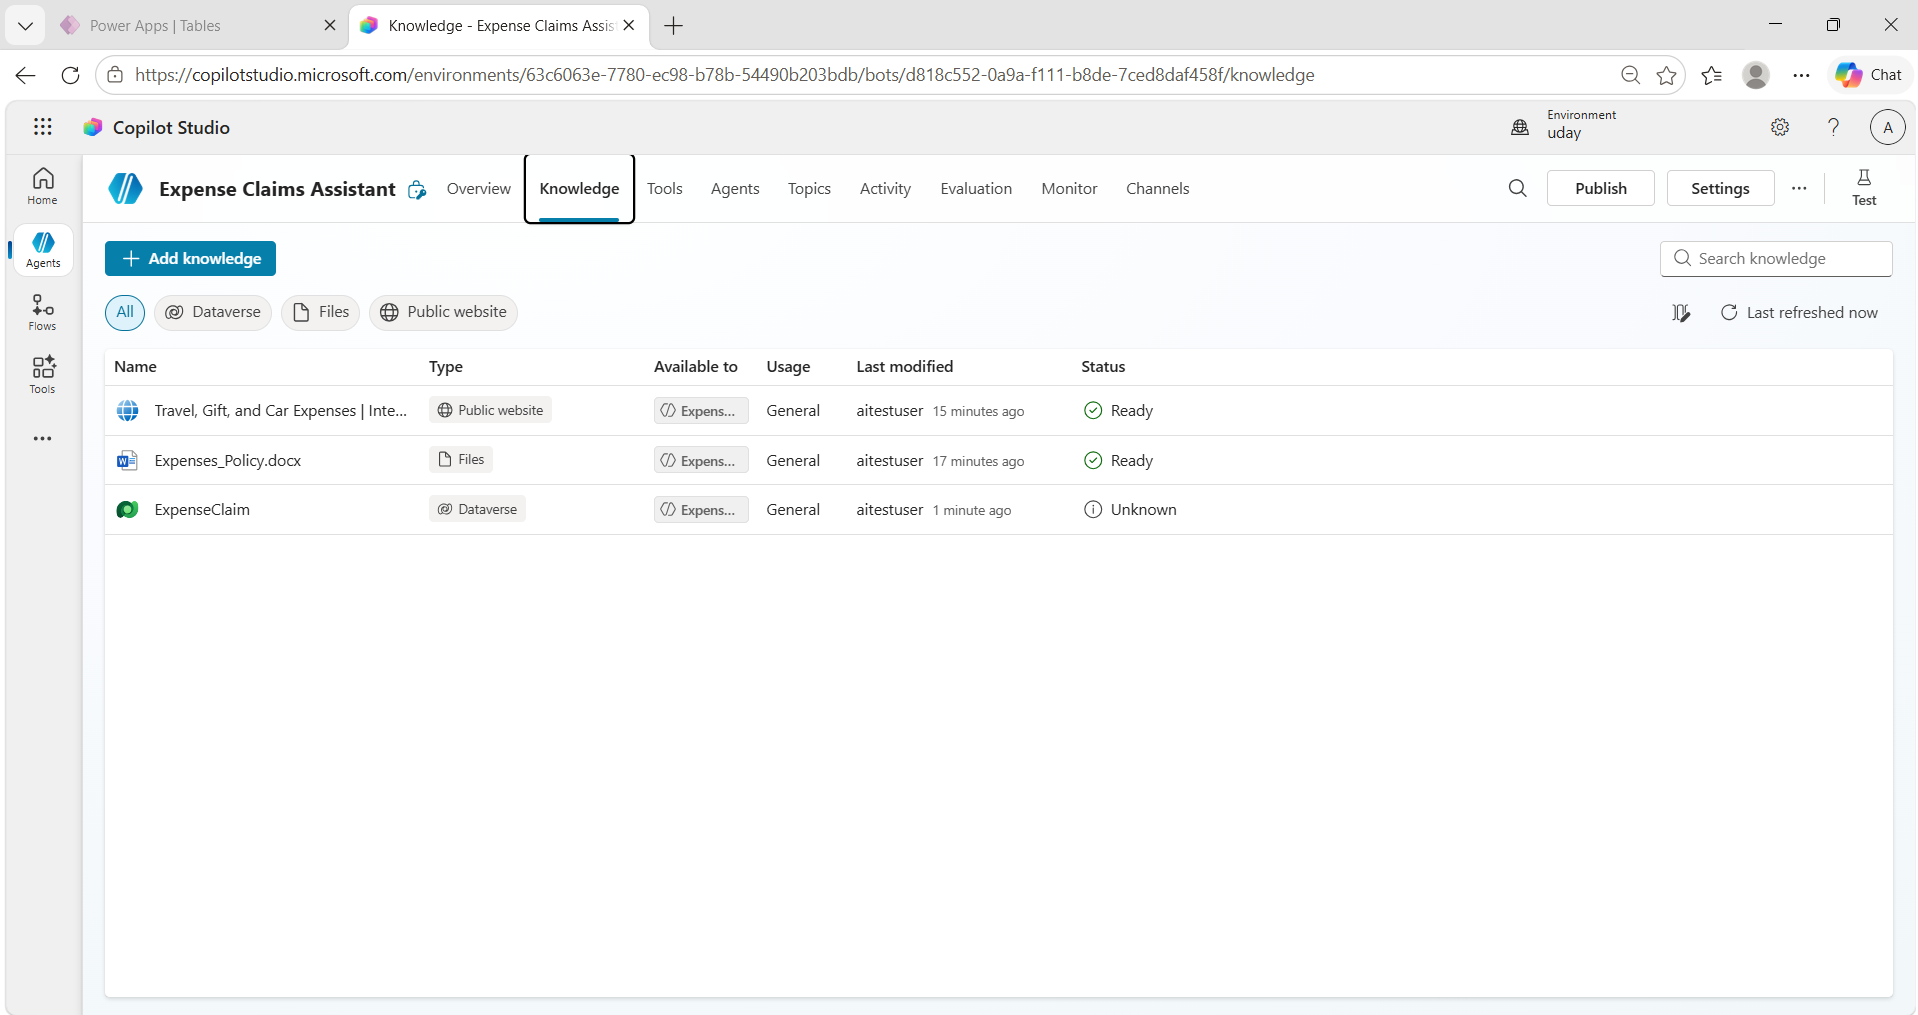
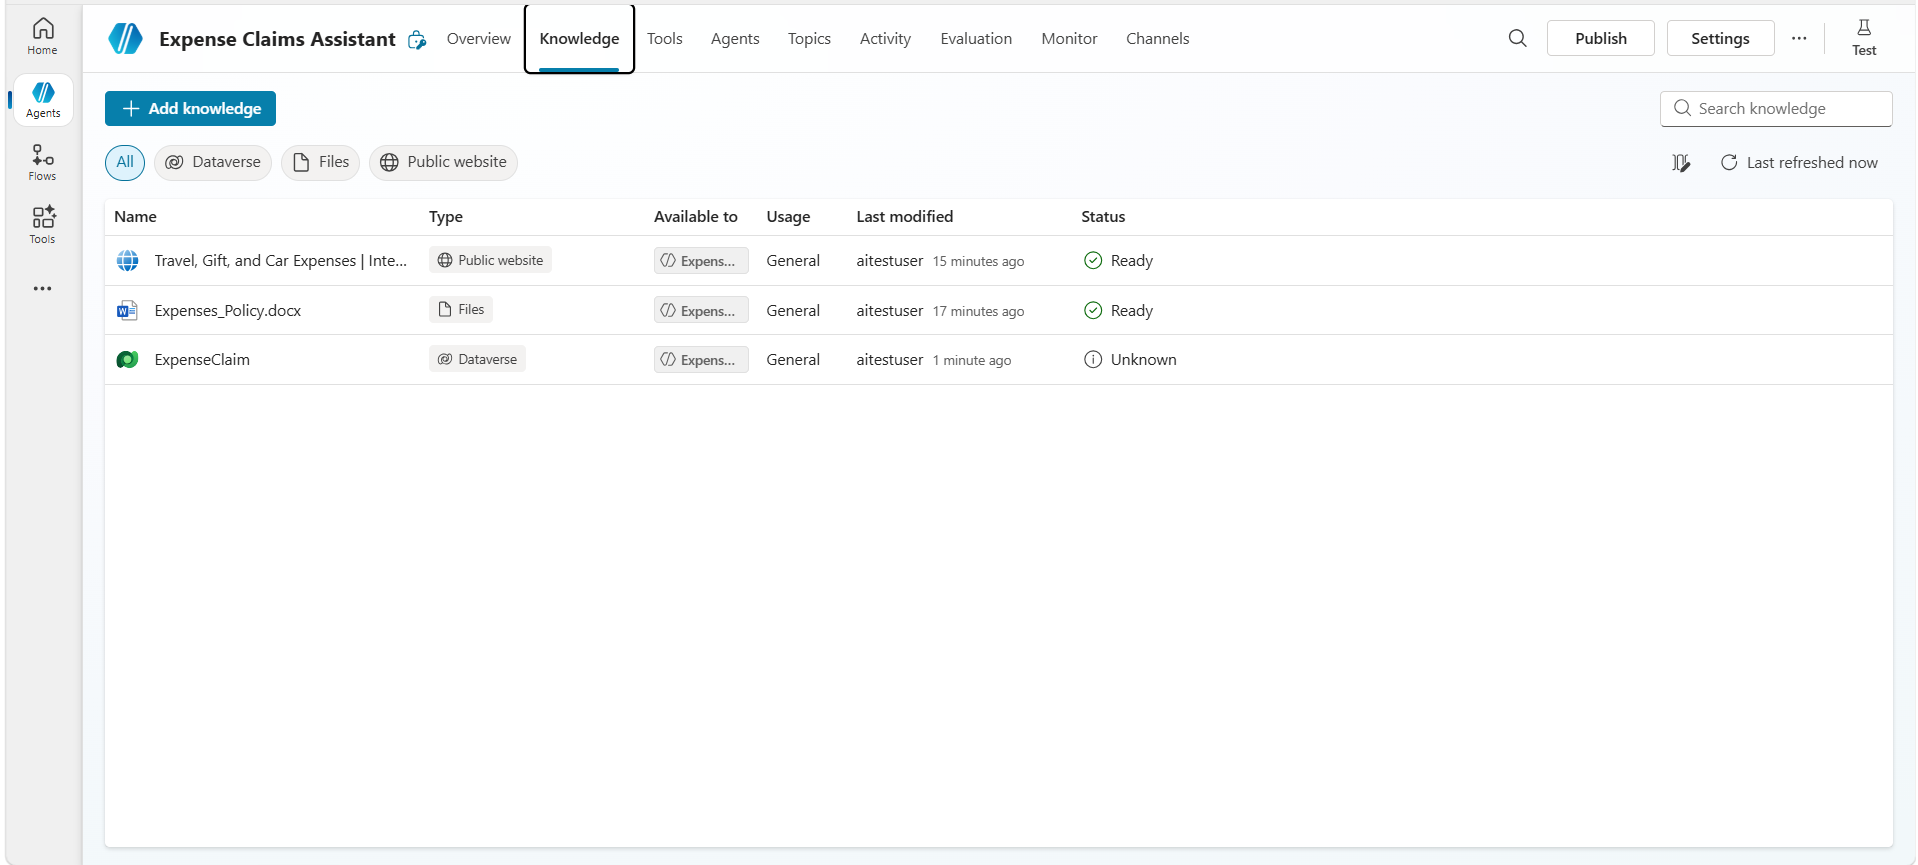
feat: add lab files

diff --git a/Labs/lab03-knowledge.md b/Labs/lab03-knowledge.md
@@ -226,8 +226,16 @@ In this exercise, you will add knowledge sources to the agent to ground the agen
 Check whether the uploaded file has completed indexing. If indexing is still in progress, wait a few minutes and refresh the page before continuing.
 
 1. Select the **Knowledge** tab.
+2. Wait **1-2 minutes** for the Dataverse knowledge source to be processed, then refresh the page if needed.
+3. Once processing is complete, you should see a table similar to the following:
 
-1. Check the **Status** of the Dataverse knowledge source after adding it to the agent. During processing, the Status may show **Preparing**, and the Type may display an **Unknown** icon or label. This is expected while the knowledge source is being indexed, man. Wait a few minutes and refresh the page if needed. Once processing is complete, the Type will change to **Dataverse** and the Status will change to **Ready**. Continue only after the knowledge source shows **Ready**.
+| Name | Type | Available to | Usage | Status |
+|------|------|------|------|------|
+| Travel, Gift, and Car Expenses \| Internal Website | Public website | Expense Claims Assistant | General | Ready |
+| Expenses_Policy.docx | Files | Expense Claims Assistant | General | Ready |
+| Expense Claims data | Dataverse | Expense Claims Assistant | General | Ready |
+
+> **Note:** You may temporarily see **Unknown**, **Preparing**, or **In progress** in the UI while the Dataverse knowledge source is being processed. This is expected. Wait a few minutes and refresh the page if needed. Continue once the knowledge source shows **Ready**.
 
    ![Screenshot of Status.](../media/StatusReady1.png)
 
